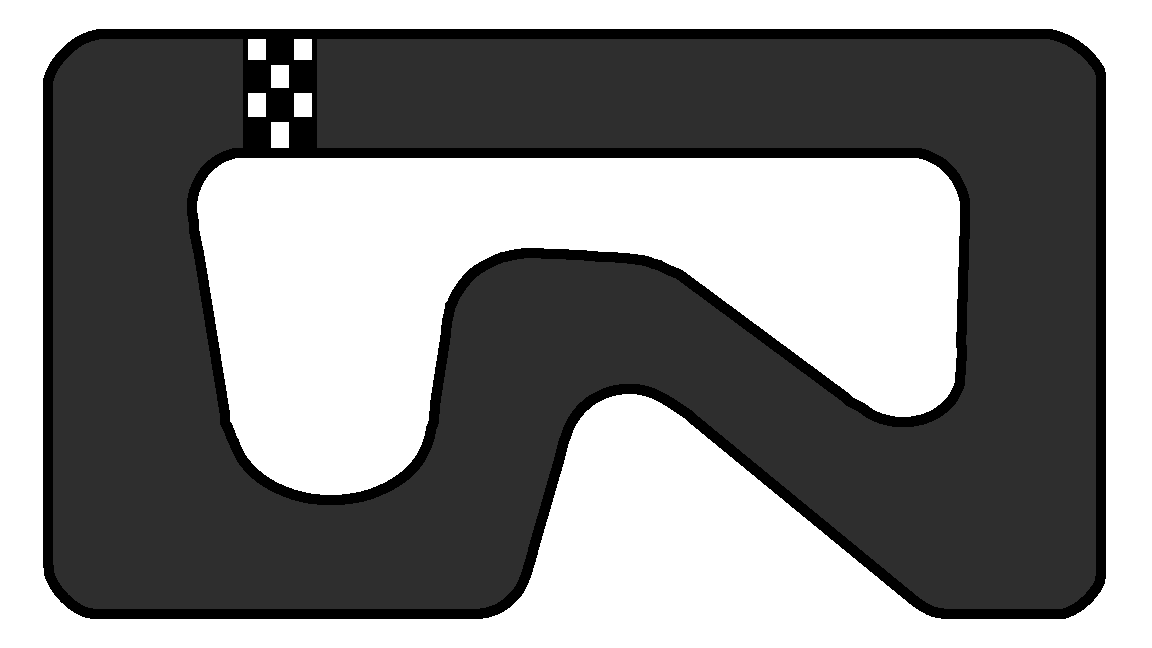
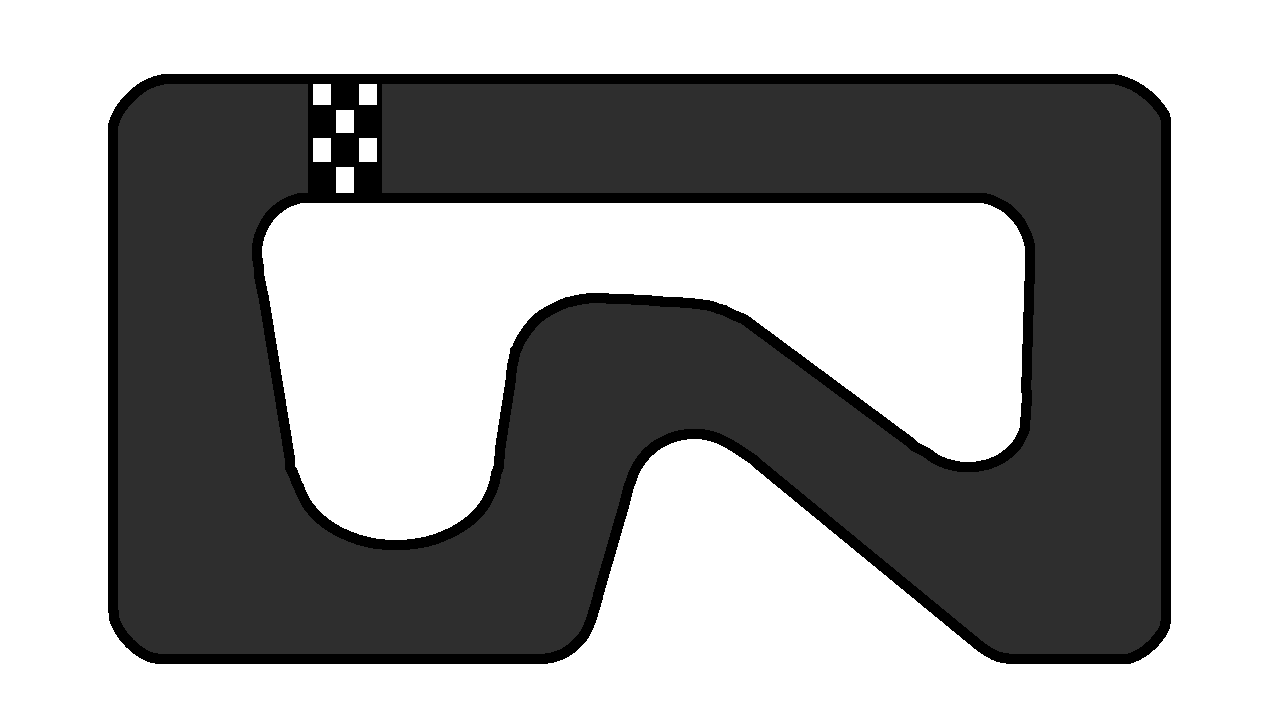
Increased map size

Changed region(s): [[0.0312, 0.0309, 0.9688, 0.9568]]

diff --git a/main.py b/main.py
@@ -7,8 +7,8 @@ pygame.init()
 pygame.display.set_caption('Dazzling Dash')
 clock = pygame.time.Clock()
 
-WIDTH = 1152
-HEIGHT = 648
+WIDTH = 1280
+HEIGHT = 720
 screen = pygame.display.set_mode((WIDTH, HEIGHT), HWSURFACE|DOUBLEBUF|RESIZABLE)
 fake_screen = screen.copy()
 
@@ -18,7 +18,7 @@ REDCAR_ORIGINAL = pygame.image.load(os.path.join(filepath+"/images", "car.png"))
 
 redangle = 0
 redspeed = 0.0
-pos_red = Vector2(210, 41)
+pos_red = Vector2(277,87.5)
 vel_red = Vector2(redspeed, 0)
 
 redcar = REDCAR_ORIGINAL
@@ -84,7 +84,7 @@ while run:
     if (pos_red.x <= 0) or (pos_red.x >= WIDTH) or (pos_red.y <= 0) or (pos_red.y >= HEIGHT):
         redangle = 0
         redspeed = 0.0
-        pos_red = Vector2(210, 41)
+        pos_red = Vector2(277,87.5)
         vel_red = Vector2(redspeed, 0)
     
     pos_red += vel_red
